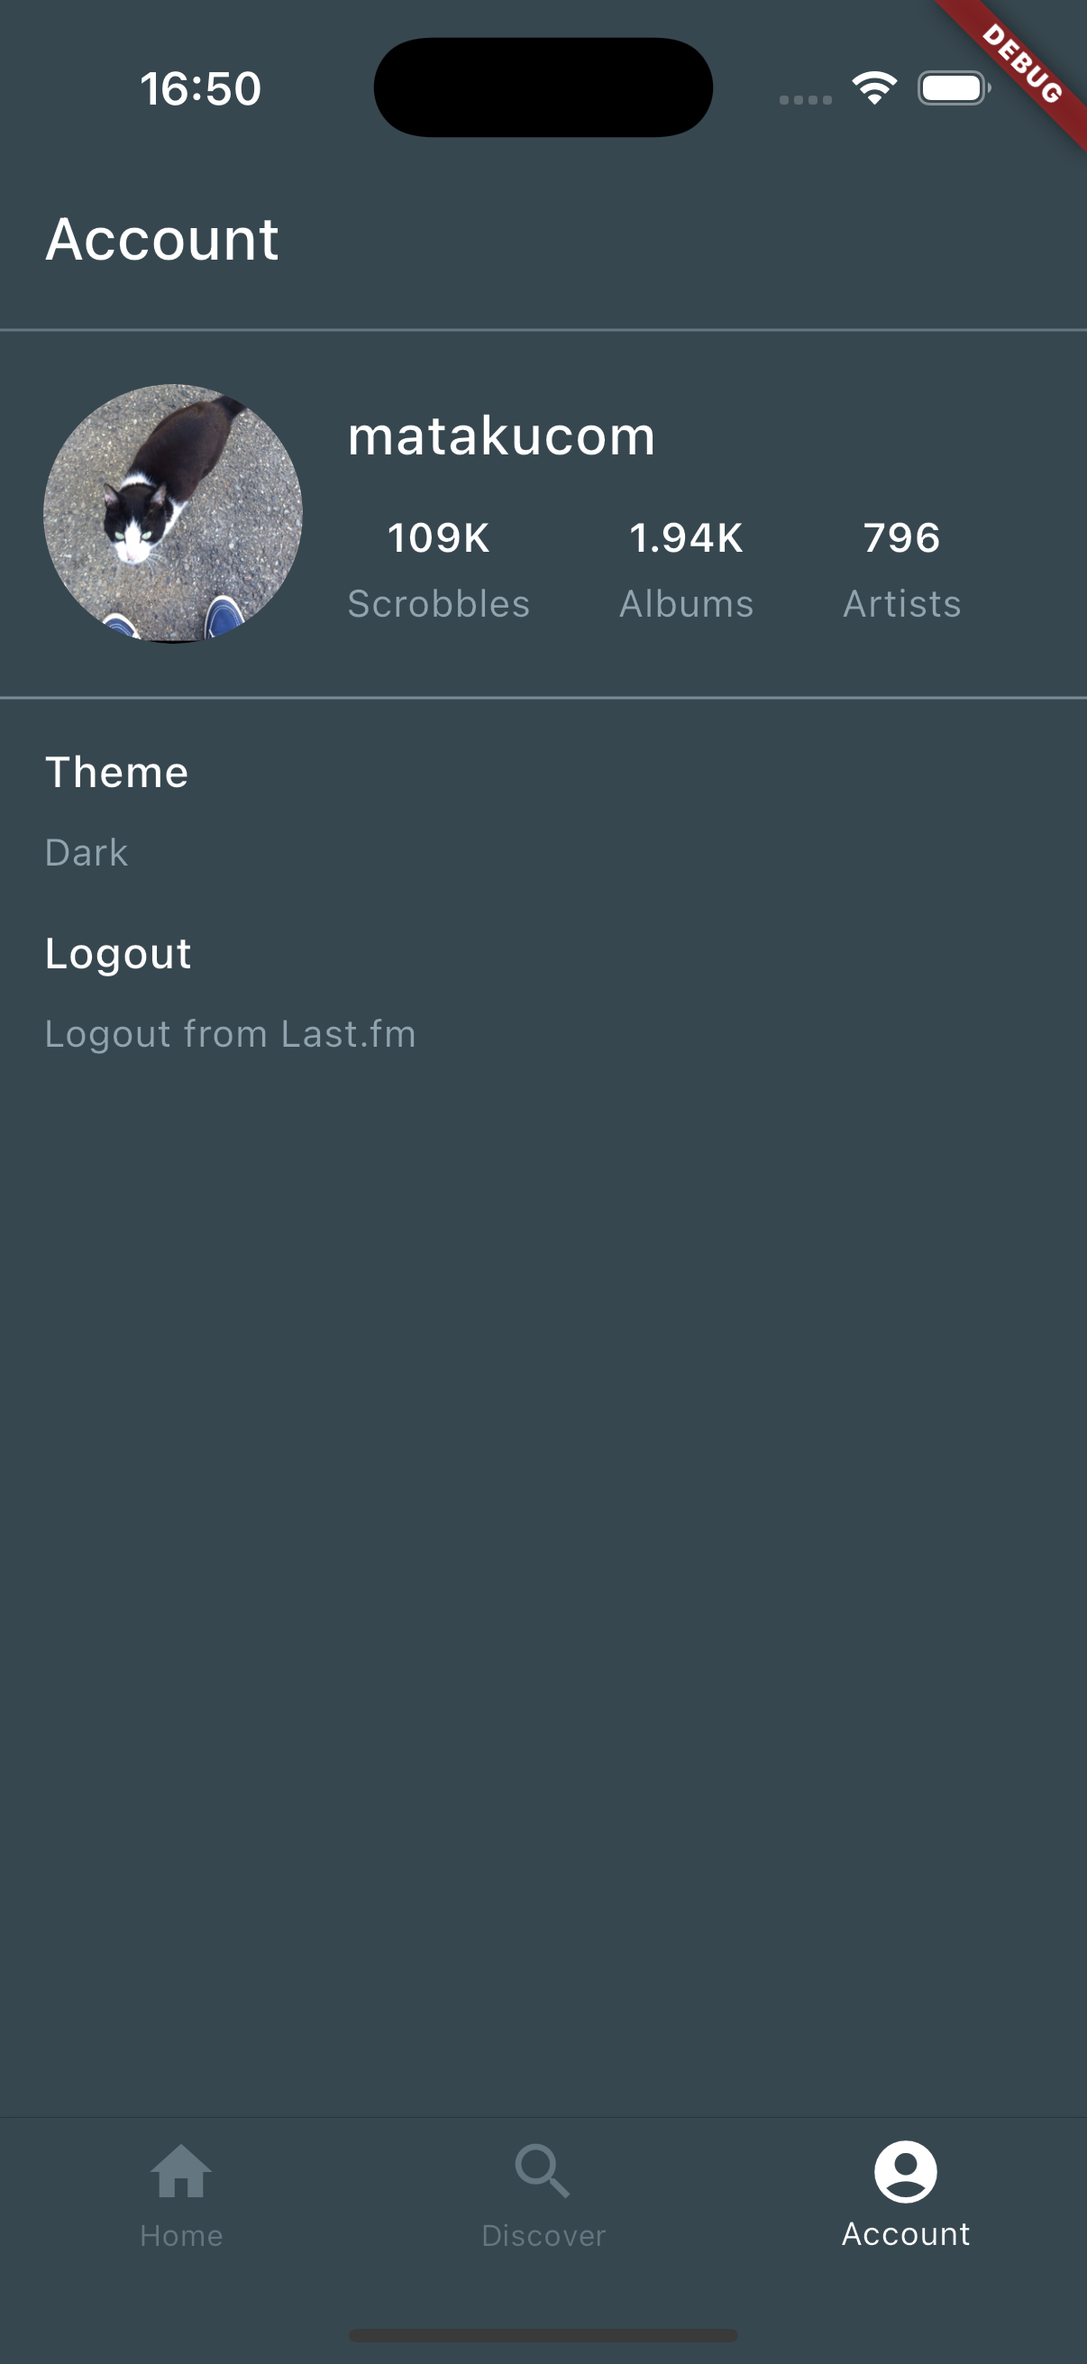
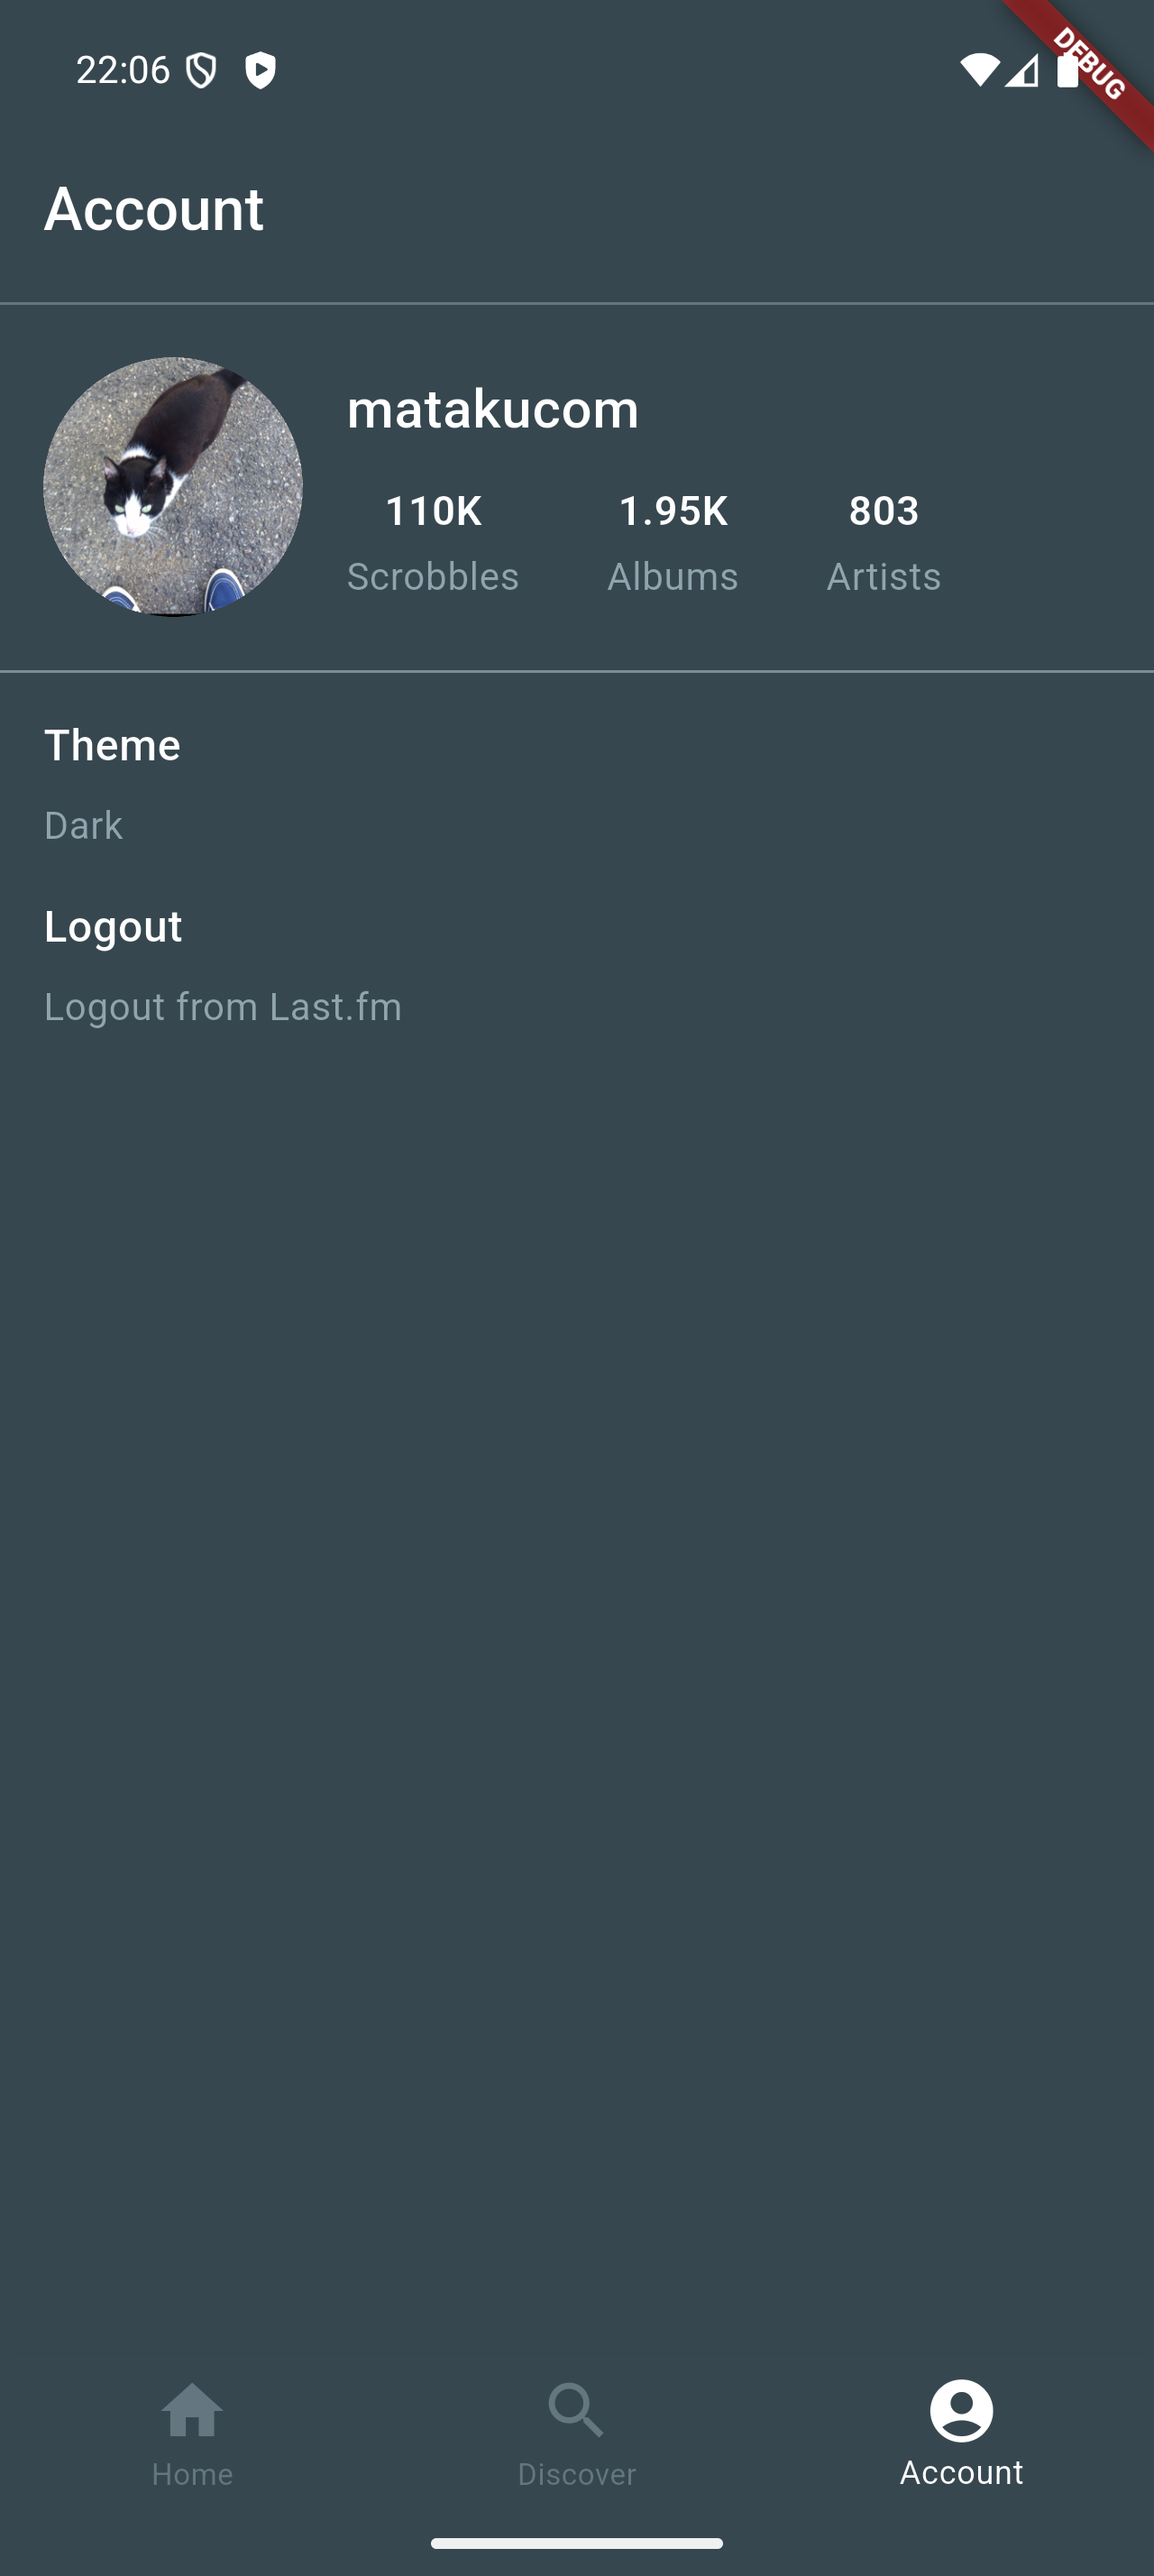
Update screenshots

diff --git a/lib/ui/account/theme_selection_screen.dart b/lib/ui/account/theme_selection_screen.dart
@@ -78,8 +78,8 @@ class _ThemeSelection extends StatelessWidget {
         padding: const EdgeInsets.only(
           left: 16,
           right: 16,
-          top: 8,
-          bottom: 8,
+          top: 16,
+          bottom: 16,
         ),
         child: Row(
           mainAxisAlignment: MainAxisAlignment.spaceBetween,
@@ -87,6 +87,9 @@ class _ThemeSelection extends StatelessWidget {
           children: [
             Text(
               appTheme.label,
+              style: TextStyle(
+                fontWeight: FontWeight.bold,
+              ),
             ),
             if (selected)
               Icon(

diff --git a/README.md b/README.md
@@ -11,9 +11,20 @@ Flutter Architecture Sample like Model-View-ViewModel using Last.fm API.
 
 ## Screenshots
 
-| Recent tracks | Album | Artist |
+Tabs
+
+| Home | Discover | Account |
 | :--: | :--: | :--: |
-| ![](./misc/scrobble.png) | ![](./misc/album.png) | ![](./misc/artist.png) |
+| ![](./misc/scrobble.png) | ![](./misc/discover.png) | ![](./misc/account.png) |
+
+- - -
+
+Home Tab contents
+
+| Album | Artist |
+|  :--: | :--: |
+| ![](./misc/album.png) | ![](./misc/artist.png) |
+
 
 ## Setup
 
